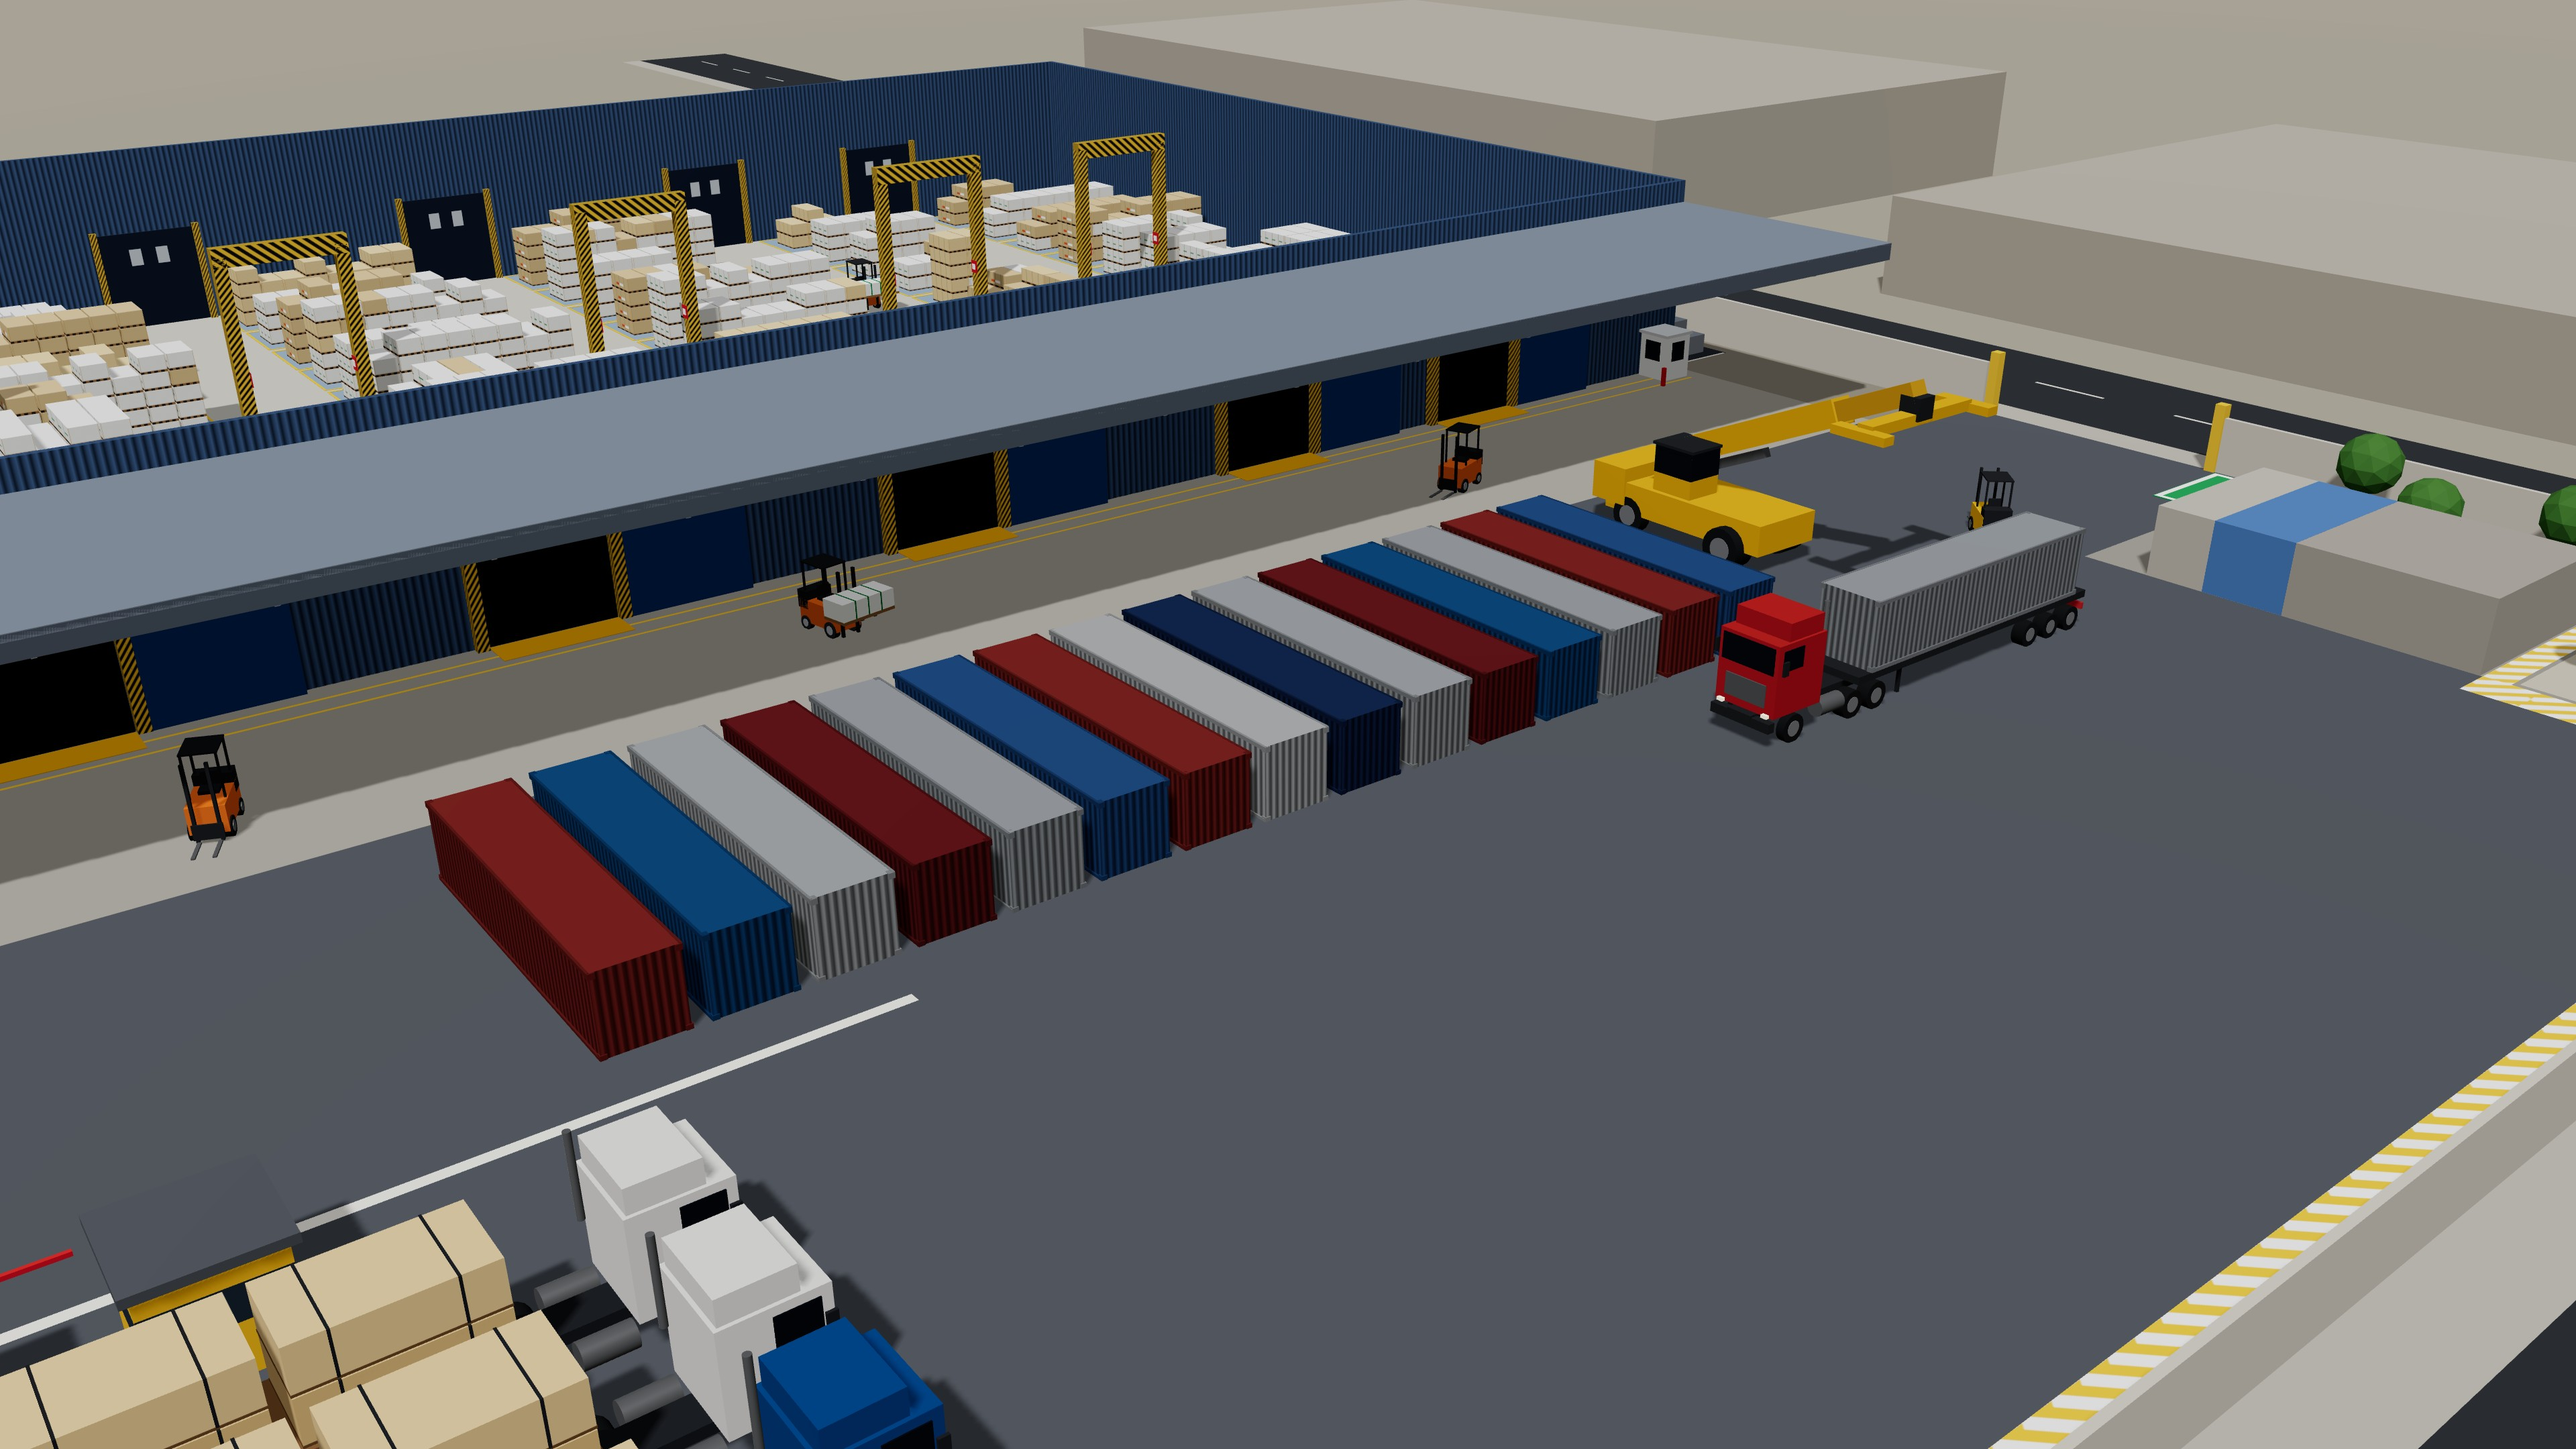
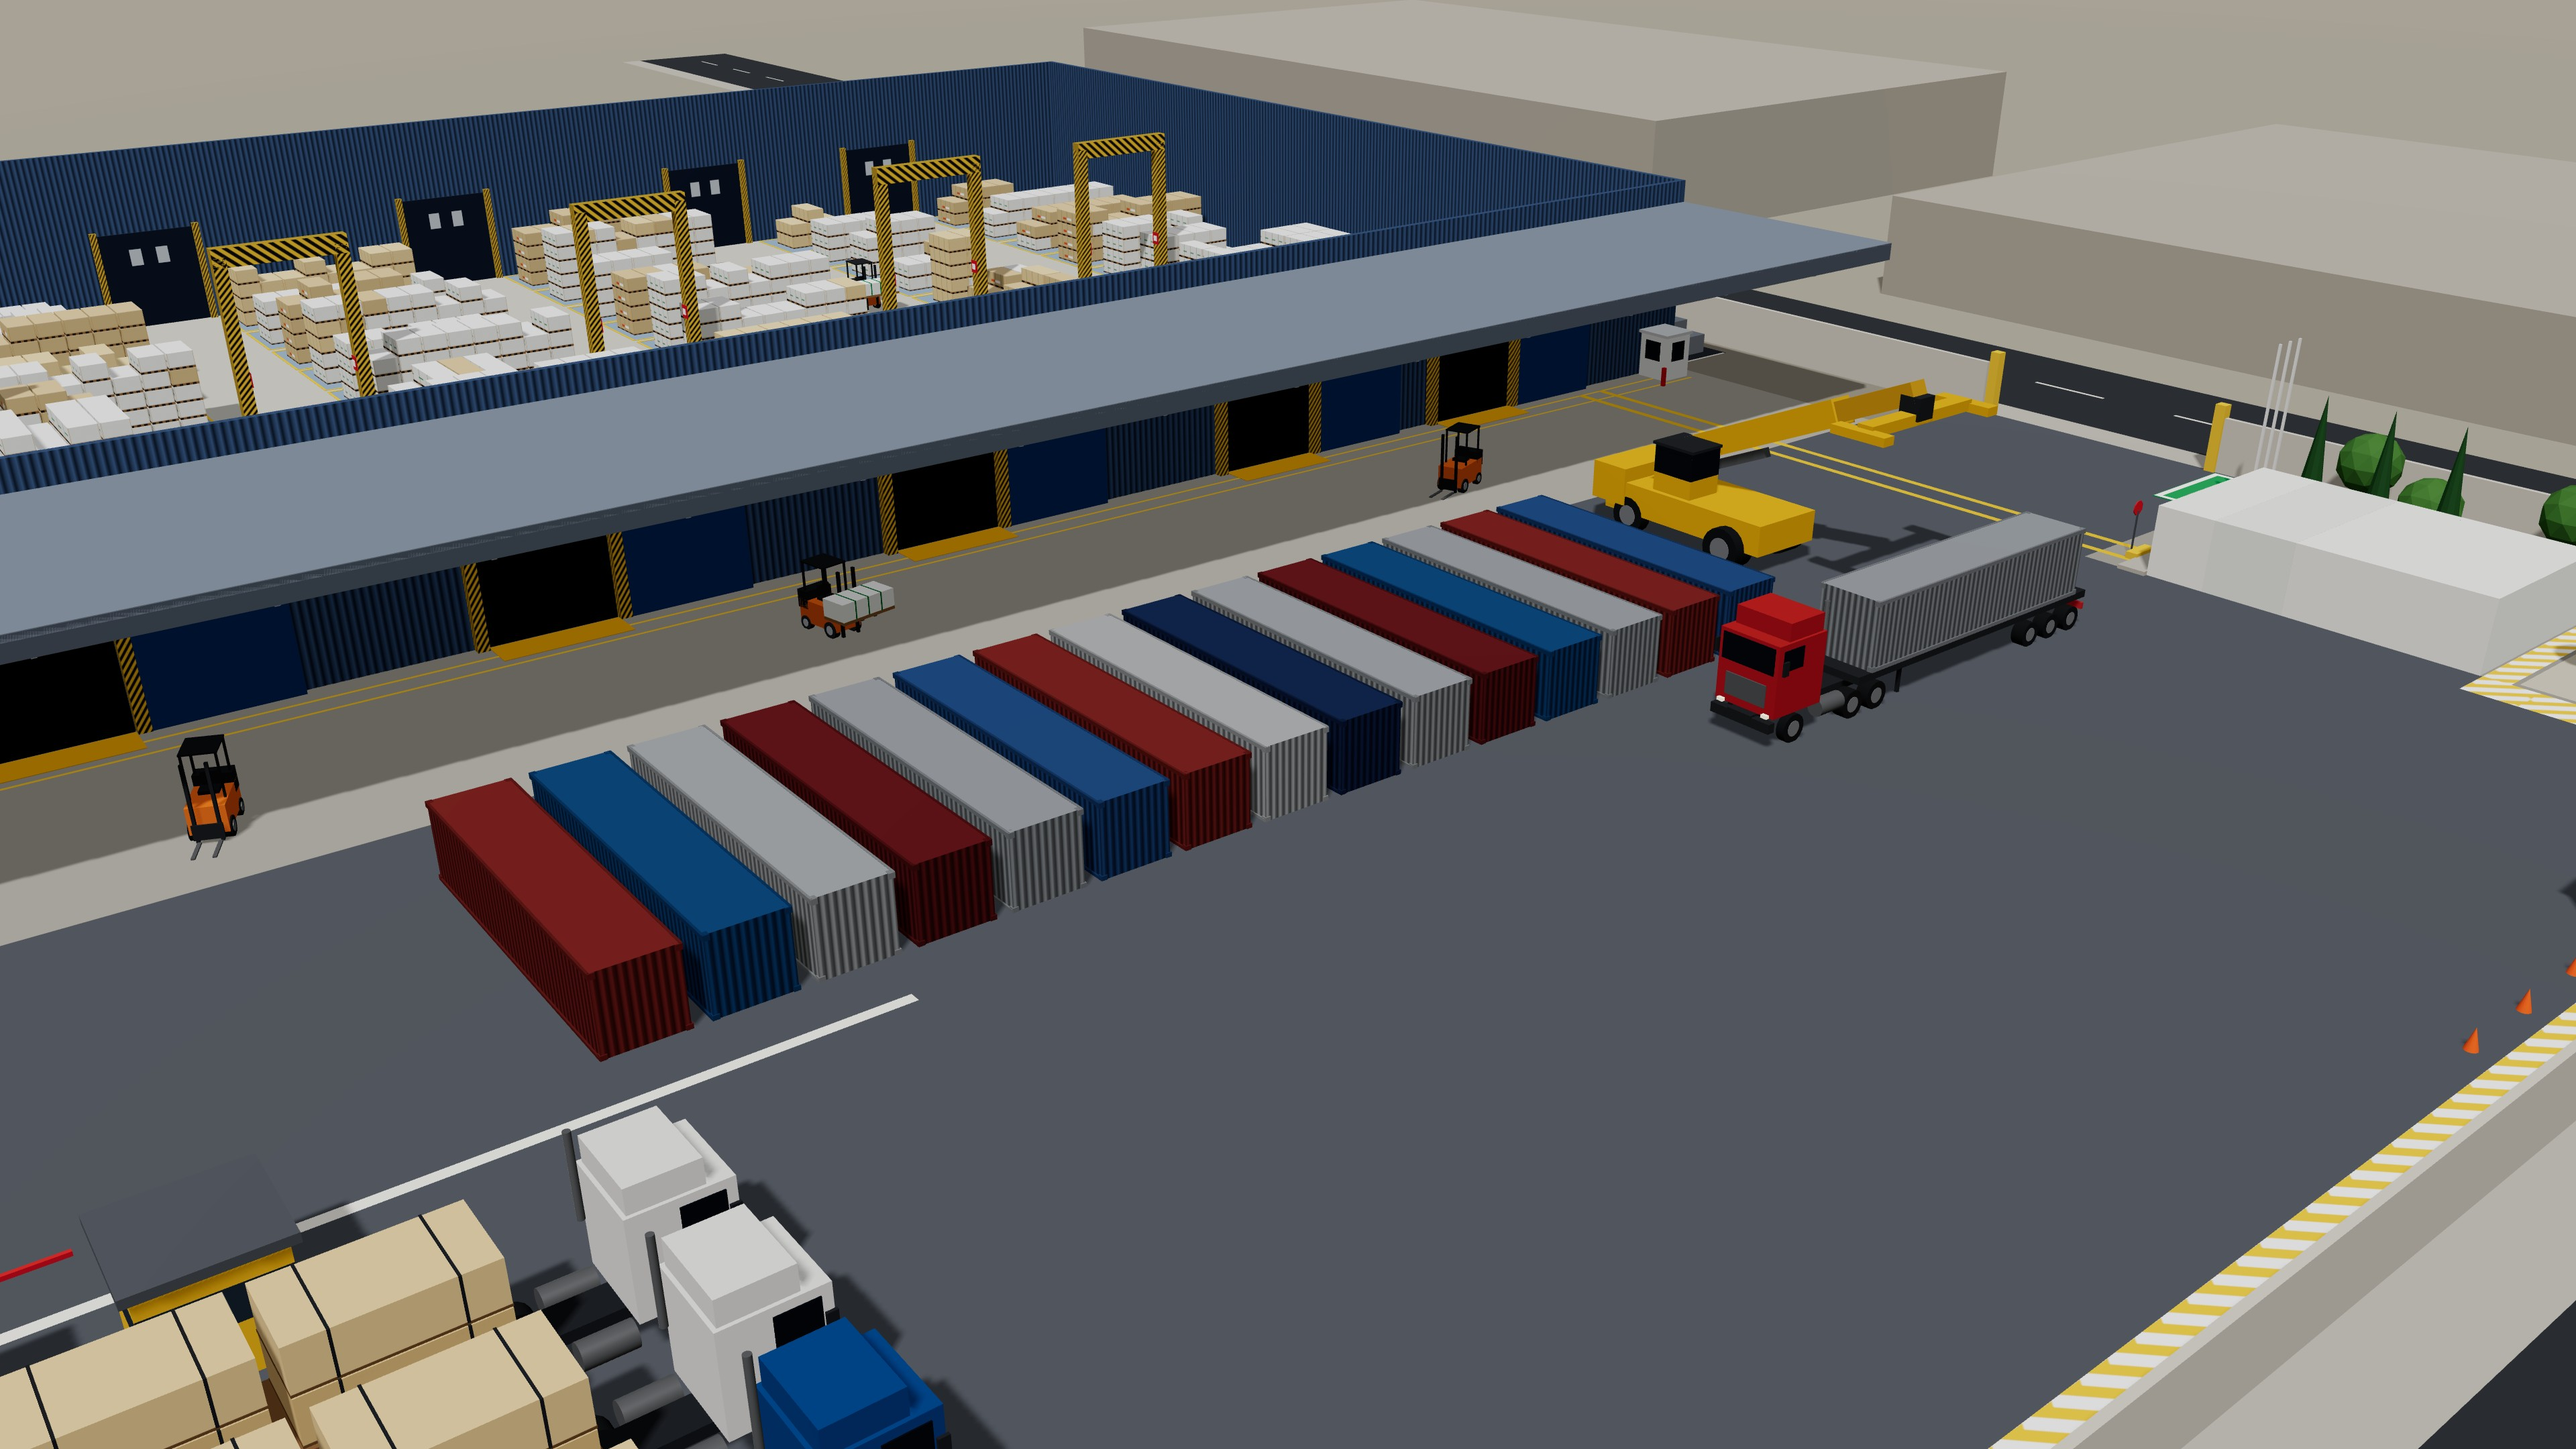
Sendero peatonal del alero a los camarines y detalles de la foto
- Doble línea amarilla desde el alero hasta el edificio de camarines
- Camarines en blanco, con vereda, puerta, jaulas de cilindros y
  señal PARE al final del sendero
- Mástiles, cipreses y contenedor de basura junto al edificio
- Caseta eléctrica, conos y señal de evacuación junto al muro de Pedro Montt
- Quita las líneas del patio trasero (venían de leer mal la foto)

Claude-Session: https://claude.ai/code/session_013qYt4wV63U82gmHjwDRceP

Changed region(s): [[0.8125, 0.2481, 1.0, 0.4653], [0.6875, 0.3102, 0.7812, 0.3722], [0.625, 0.2792, 0.6562, 0.3102]]

diff --git a/index.html b/index.html
@@ -608,9 +608,9 @@ const wallMats = [];
   box(site, of.x1 - of.x0 + 0.3, 0.3, of.z1 - of.z0 + 0.3, '#8fa9c2', (of.x0 + of.x1) / 2, 3.75, (of.z0 + of.z1) / 2, { zone: 'oficina' });
   box(site, 0.08, 1.3, 10, '#2c3a4b', of.x0 - 0.04, 2, (of.z0 + of.z1) / 2, { cast: false });
   box(site, 6, 1.3, 0.08, '#2c3a4b', (of.x0 + of.x1) / 2, 2, of.z1 + 0.04, { cast: false });
-  rbox(site, { x0: 85, x1: 93, z0: 14, z1: 21.5 }, 3, '#a7a29a', 0, { zone: 'oficina' });
-  rbox(site, { x0: 85, x1: 93, z0: 21.5, z1: 24.8 }, 3, '#5b86c0', 0, { zone: 'oficina' });
-  rbox(site, { x0: 85, x1: 93, z0: 24.8, z1: 27.2 }, 3, '#bdb7ae', 0, { zone: 'oficina' });
+  rbox(site, { x0: 85, x1: 93, z0: 14, z1: 21.5 }, 3, '#eeeeea', 0, { zone: 'oficina' });
+  rbox(site, { x0: 85, x1: 93, z0: 21.5, z1: 24.8 }, 3, '#e6e6e1', 0, { zone: 'oficina' });
+  rbox(site, { x0: 85, x1: 93, z0: 24.8, z1: 27.2 }, 3, '#eeeeea', 0, { zone: 'oficina' });
 
   // --- Gate control y caseta (Cervantes side, by the portón)
   rbox(site, { x0: 10.5, x1: 13.5, z0: 25.5, z1: 28.5 }, 2.8, '#f2b705', 0, { zone: 'gate' });
@@ -644,10 +644,35 @@ const wallMats = [];
     box(site, 0.05, 1.0, 1.0, '#1f2a36', G2.x0 - 0.03, 1.6, gz, { cast: false });
     box(site, 0.18, 1.0, 0.18, '#d6362b', G2.x0 - 0.5, 0.5, G2.z0 - 0.4);
   }
-  // --- Yellow pedestrian lines from portón trasero 5 into the patio trasero
+  // --- Pedestrian path (double yellow line) from the alero to the camarines building, and details seen in the photo
   {
-    floor(site, { x0: DOORS[4] - 1.0, x1: DOORS[4] - 0.75, z0: R.bodega.z1 + 0.3, z1: R.trasero.z1 - 1 }, null, 0.06, null, mat('#f2c230'));
-    floor(site, { x0: DOORS[4] + 0.75, x1: DOORS[4] + 1.0, z0: R.bodega.z1 + 0.3, z1: R.trasero.z1 - 1 }, null, 0.06, null, mat('#f2c230'));
+    const yl = mat('#e9b91f');
+    floor(site, { x0: 85.9, x1: 86.25, z0: 28.4, z1: R.alero.z1 - 1.15 }, null, 0.062, null, yl);
+    floor(site, { x0: 87.35, x1: 87.7, z0: 28.4, z1: R.alero.z1 - 1.15 }, null, 0.062, null, yl);
+    // concrete step along the camarines front, yellow steps at the path end
+    box(site, 8.4, 0.2, 1.2, '#b9b5ac', 89, 0.1, 27.8);
+    box(site, 1.4, 0.35, 0.5, '#f2c230', 86.8, 0.17, 28.6);
+    // door and two gas-cylinder cages in front of the building
+    box(site, 1.1, 2.2, 0.06, '#5b6470', 88.4, 1.3, 27.23, { cast: false });
+    [90.0, 91.3].forEach(x => {
+      box(site, 1.2, 2.0, 0.9, '#c9ccd0', x, 1.2, 28.0, { material: new THREE.MeshStandardMaterial({ color: '#c9ccd0', metalness: 0.5, roughness: 0.4, transparent: true, opacity: 0.55 }) });
+      for (let k = -1; k <= 1; k++) { const cyl = new THREE.Mesh(new THREE.CylinderGeometry(0.15, 0.15, 1.1, 12), mat('#d9dde0', { metalness: 0.4 })); cyl.position.set(x + k * 0.35, 0.8, 28.0); site.add(cyl); }
+      box(site, 0.35, 0.35, 0.02, '#d6362b', x, 1.7, 27.54, { cast: false });
+    });
+    // "PARE · MIRE Y ESCUCHE" stop sign at the end of the path
+    box(site, 0.06, 2.0, 0.06, '#55595f', 86.6, 1.0, 28.9);
+    const stop = new THREE.Mesh(new THREE.CylinderGeometry(0.32, 0.32, 0.04, 8), mat('#d6362b')); stop.rotation.x = Math.PI / 2; stop.rotation.y = Math.PI / 8; stop.position.set(86.6, 2.1, 28.92); site.add(stop);
+    // flagpoles and cypresses beside the building
+    [93.8, 94.6, 95.4].forEach(x => box(site, 0.1, 8, 0.1, '#e8e8e8', x, 4, 27.9));
+    [[93.6, 25.4], [93.6, 22.6], [93.6, 19.8]].forEach(([x, z]) => {
+      const c = new THREE.Mesh(new THREE.ConeGeometry(0.7, 6, 10), mat('#2f5a2c', { flatShading: true })); c.position.set(x, 3.4, z); c.castShadow = true; site.add(c);
+    });
+    // waste bin
+    box(site, 1.2, 1.3, 1.0, '#2b2e33', 95.5, 0.65, 28.3);
+    // small electrical booth by the Pedro Montt wall, cones and tsunami-route sign
+    box(site, 1.6, 2.3, 1.4, '#c9ccd0', 70, 1.15, 3.2); box(site, 1.8, 0.12, 1.6, '#9aa3ad', 70, 2.36, 3.2);
+    box(site, 1.4, 0.9, 0.06, '#1f7a4d', 78, 1.9, 0.2, { cast: false });
+    [60, 63, 66].forEach(x => { const cn = new THREE.Mesh(new THREE.ConeGeometry(0.2, 0.7, 12), mat('#ff6a1a')); cn.position.set(x, 0.35, 2.9); cn.castShadow = true; site.add(cn); });
   }
 
   // --- Zonas seguras al costado de ambos portones

diff --git a/README.md b/README.md
@@ -25,6 +25,7 @@ Renders en 4K (3840 × 2160) en la carpeta `renders/`:
 | Garita bajo el alero | `renders/8-garita-alero.jpg` |
 | Muro del fondo con portones traseros | `renders/9-fondo.jpg` |
 | Pasillo con los pilares del centro | `renders/10-pilares.jpg` |
+| Sendero peatonal del alero a los camarines | `renders/11-sendero.jpg` |
 
 Para generar capturas en alta resolución desde el navegador, abre la página con `#hd` al final de la dirección (sombras y resolución más altas).
 
